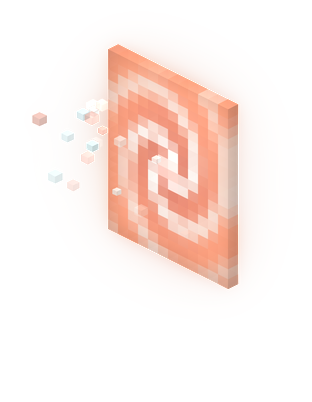
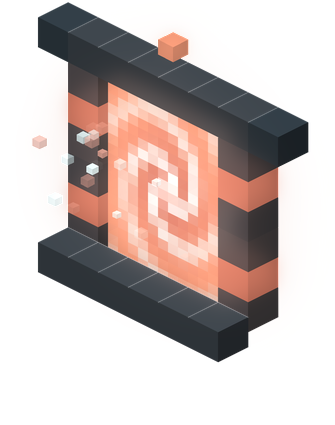
fix(docs): keep the hero gate's front pillar in front of its membrane
The animated membrane overlay sat on top of the static island image, so it
covered the front pillar and looked shifted off the centre of its gate. The
overlay now redraws the gate stonework, depth-sorted with the membrane, as
the single-scene render used to.

diff --git a/docs/assets/site/generate.py b/docs/assets/site/generate.py
@@ -165,14 +165,16 @@ def hero_mid_stones():
 
 def hero_mid_gate_frame(t):
     """The vortex membrane, its sparks, and the traveller crossing through: the only part of the
-    portal that moves frame to frame. Same formulas as the old hero_mid(t), just on the small
+    portal that moves frame to frame, redrawn over the gate stonework. Same formulas as the old hero_mid(t), just on the small
     dedicated canvas above instead of the full hero, and no longer sharing a frame budget with
     the static stonework in hero_mid_stones."""
     w, h = HERO_MID_GATE_CANVAS
     gate_vox, cells = gate(-3, -2, 0, 4, 6, np.random.default_rng(2), t=t)
-    glow = [v for v in gate_vox if v[5] < 0.5]
+    # The stonework is static and already in hero_mid_stones, but it is drawn here again so it is
+    # depth-sorted with the membrane: without it the membrane, stacked on top of the island
+    # image, covers the front pillar and looks shifted off the centre of its gate.
     scene = Scene(w, h)
-    scene.add(glow, HERO_MID_GATE_OX, HERO_MID_GATE_OY, 15)
+    scene.add(gate_vox, HERO_MID_GATE_OX, HERO_MID_GATE_OY, 15)
     img = scene.render(bloom=15, strength=0.7)
 
     # the traveller walks up from the grass, through the opening, and fades into the membrane

diff --git a/docs/assets/site/README.md b/docs/assets/site/README.md
@@ -37,7 +37,7 @@ frame; everything else is a still image that moves by CSS alone.
 | `hero-far-1..6.png` | varies, cropped to content | - | The six small, distant islands, each its own static transparent crop. Bobs via CSS (`--mf-bob`, `animation-delay` set per island from its old phase). |
 | `hero-near-1..2.png` | varies, cropped to content | - | The one or two large islands cropped by the hero's frame edge, closer to the viewer. Same static-crop-plus-CSS-bob treatment as `hero-far-*`. |
 | `hero-mid-island.png` | 273x303 | - | The portal island and its gate stonework (pillars, lintel, keystone, rune inlays): static, since only the membrane between the pillars actually moves. |
-| `hero-mid-gate.webp` / `.png` | 156x201 | 48 frames, 1.92s (25fps) | The vortex membrane, its sparks, and the traveller, cropped tightly to the gate opening instead of the full hero canvas - the one piece of the portal that still needs real frames. Shares its bob wrapper with `hero-mid-island.png` (same phase) so the two never drift apart. `.png` is the reduced-motion still. |
+| `hero-mid-gate.webp` / `.png` | 168x213 | 48 frames, 1.92s (25fps) | The vortex membrane, its sparks, the traveller and the gate stonework redrawn so the front pillar stays in front of the membrane, cropped tightly to the gate instead of the full hero canvas - the one piece of the portal that still needs real frames. Shares its bob wrapper with `hero-mid-island.png` (same phase) so the two never drift apart. `.png` is the reduced-motion still. |
 
 `hero-far-*` and `hero-near-*` need no `-720` companion: each is already a few KB, cropped to its
 own content by `save_hero_crop` in `generate.py`. `hero-mid-gate.webp` is the one hero asset

diff --git a/docfx/index.md b/docfx/index.md
@@ -31,7 +31,7 @@ title: Manifold
 <img class="mf-hero__island" src="assets/site/hero-mid-island.png" style="--ix: 583.5; --iy: 171.5; --iw: 273; --ih: 302.5;" width="273" height="303" alt="" loading="eager" decoding="async">
 <picture>
 <source media="(prefers-reduced-motion: reduce)" srcset="assets/site/hero-mid-gate.png">
-<img class="mf-hero__island" src="assets/site/hero-mid-gate.webp" srcset="assets/site/hero-mid-gate-720.webp 156w, assets/site/hero-mid-gate.webp 312w" sizes="(max-width: 768px) 16vw, 156px" style="--ix: 656; --iy: 183; --iw: 156; --ih: 201;" width="156" height="201" alt="" loading="eager" decoding="async">
+<img class="mf-hero__island" src="assets/site/hero-mid-gate.webp" srcset="assets/site/hero-mid-gate-720.webp 167w, assets/site/hero-mid-gate.webp 335w" sizes="(max-width: 768px) 17vw, 168px" style="--ix: 656; --iy: 171.5; --iw: 167.5; --ih: 212.5;" width="168" height="213" alt="" loading="eager" decoding="async">
 </picture>
 </div>
 </div>
